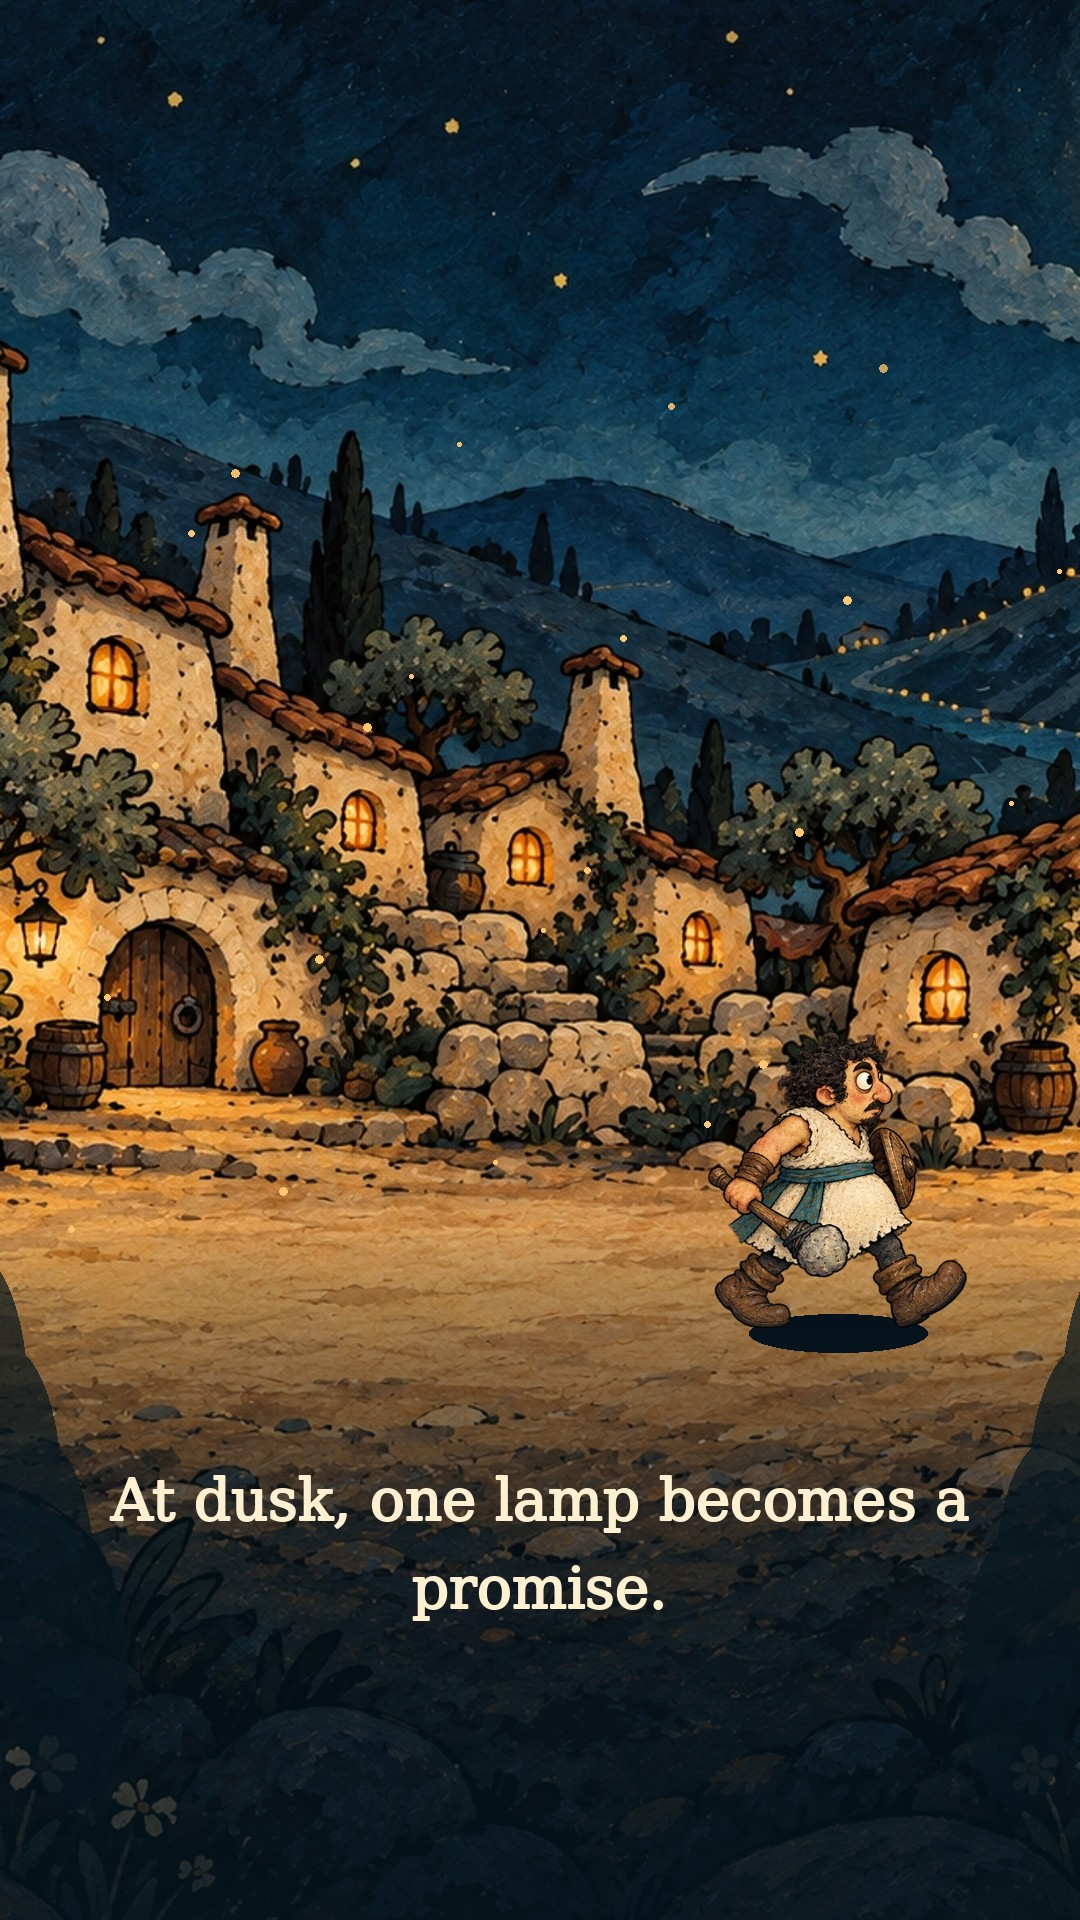
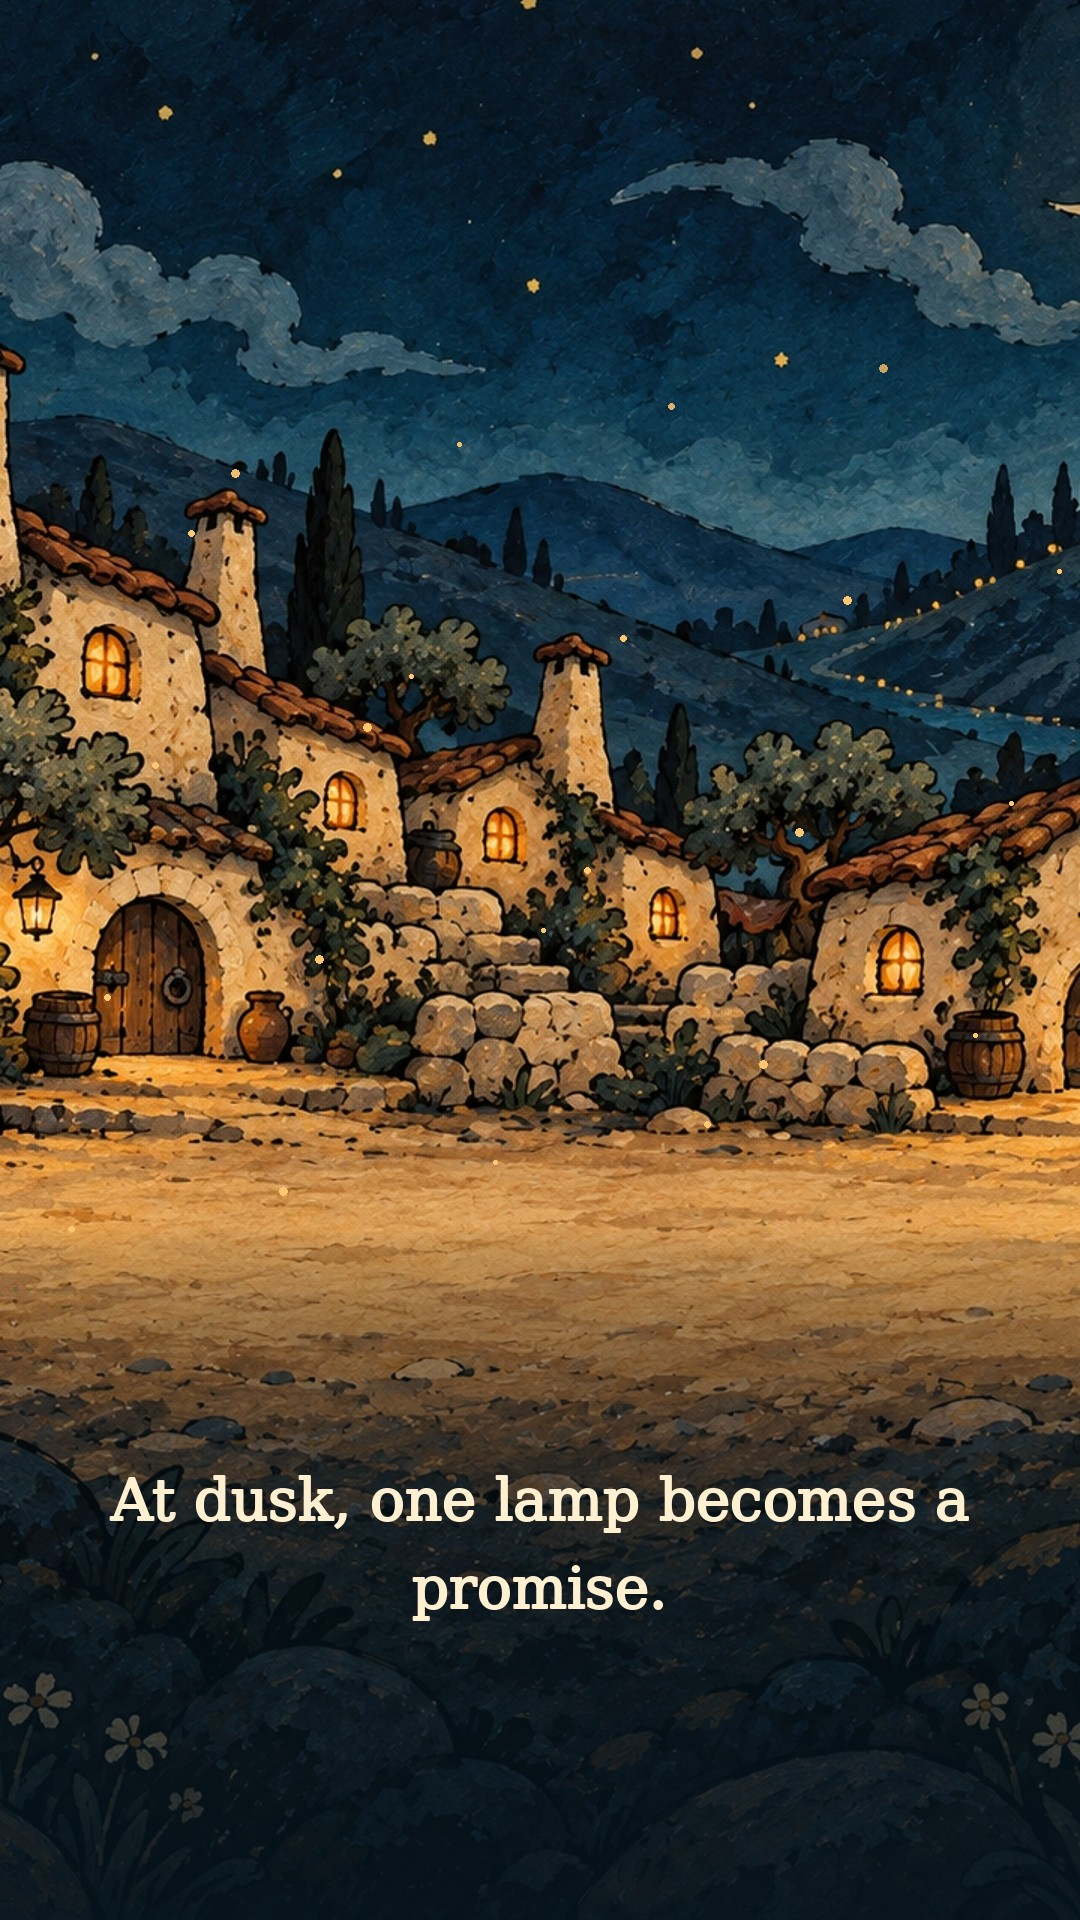
Ground cinematic characters in the authored courtyard [skip ci]

diff --git a/film/produce.py b/film/produce.py
@@ -30,50 +30,87 @@ for y in range(H):
  gd.line((0,y,W,y),fill=(5,21,31,a))
 
 def actor(im,name,x,base,height,frame=0,flip=False,shadow=False):
- a=actors[name][frame%6];a=a.resize((int(height*a.width/a.height),int(height)),Image.Resampling.BICUBIC)
+ a=actors[name][frame%6]
+ # Trim transparent padding so the visible sole, rather than the sprite box, meets the ground.
+ bounds=a.getchannel('A').getbbox()
+ if bounds:a=a.crop(bounds)
+ a=a.resize((int(height*a.width/a.height),int(height)),Image.Resampling.BICUBIC)
  if flip:a=a.transpose(Image.Transpose.FLIP_LEFT_RIGHT)
  if shadow:
   dark=Image.new('RGBA',a.size,(12,27,35,255));dark.putalpha(a.getchannel('A').point(lambda v:int(v*.8)));a=dark
- d=ImageDraw.Draw(im);d.ellipse((x-a.width*.34,base-16,x+a.width*.34,base+22),fill=(5,16,25,95))
+ # Composite the shadow in RGBA before flattening: no opaque navy ellipse.
+ blur=max(2,height*.011);pad=math.ceil(blur*4)
+ sw=math.ceil(a.width*.68);sh=math.ceil(height*.033)
+ contact=Image.new('RGBA',(sw+2*pad,sh+2*pad));d=ImageDraw.Draw(contact)
+ d.ellipse((pad,pad,pad+sw,pad+sh),fill=(25,22,17,85))
+ im.alpha_composite(contact.filter(ImageFilter.GaussianBlur(blur)),(int(x-sw/2-pad),int(base-height*.014-pad)))
  im.alpha_composite(a,(int(x-a.width/2),int(base-height)))
+
+def ground_scene(t,width,height):
+ """Project scenery and all grounded objects through one source-space camera."""
+ shot=min(5,int(t//10));u=t%10/10;e=u*u*(3-2*u)
+ plate=plates['olive' if shot in [2,3] else 'village'];portrait=height>width
+ if portrait:
+  zoom=[1.02,1.28,1.04,1.10,1.48,1.02][shot]+.035*e
+  ch=plate.height/zoom;cw=ch*width/height
+  cx=plate.width*[.51,.46,.50,.50,.73,.50][shot]+(e-.5)*18
+  cy=plate.height*(.42 if shot==4 else .53)
+ else:
+  zoom=[1.02,1.10,1.02,1.05,1.20,1.02][shot]+.035*e
+  cw=plate.width/zoom;ch=cw*height/width
+  cx=plate.width*.5+(e-.5)*18;cy=plate.height*(.38 if shot==4 else .61)+(e-.5)*12
+ cx=max(cw/2,min(plate.width-cw/2,cx));cy=max(ch/2,min(plate.height-ch/2,cy))
+ left,top=cx-cw/2,cy-ch/2;scale=width/cw
+ image=plate.crop((left,top,left+cw,top+ch)).resize((width,height),Image.Resampling.BICUBIC).convert('RGBA')
+ def project(x,y):return ((x-left)*scale,(y-top)*scale)
+ return image,project,scale
+
+def ground_company(im,t,project,scale):
+ """Feet stay on the authored open road (source y=850..990), never on roof or sky."""
+ shot=min(5,int(t//10));u=t%10/10;portrait=im.height>im.width
+ placements=[]
+ if shot==1:placements=[('pathkeeper',450,960,330,4)]
+ elif shot==2:
+  placements=[('rider',350+u*18,880,185,int(t*5)%4),('thrower',570+u*18,910,210,int(t*5+1)%4),('pathkeeper',790+u*18,955,255,int(t*5+2)%4)]
+ elif shot==3:
+  placements=[('thrower',(395 if portrait else 345)+u*24,945,220,int(t*5)%4),('rider',575+u*24,890,185,int(t*5+1)%4),('pathkeeper',(765 if portrait else 790)+u*24,965,255,int(t*5+2)%4)]
+ elif shot==5:
+  placements=[('rider',380 if portrait else 280,930,240,0),('thrower',780 if portrait else 850,935,245,0),('pathkeeper',570,980,330,4)]
+ for name,x,y,h,frame in sorted(placements,key=lambda a:a[2]):
+  sx,sy=project(x,y);actor(im,name,sx,sy,h*scale,frame)
+ # One planted standard in the dedicated raising scene; its base shares the courtyard projection.
+ if shot==1:
+  x,base=project(680,960);_,top=project(680,550);d=ImageDraw.Draw(im)
+  d.line((x,top-12*scale,x,base),fill='#483b2b',width=max(4,int(7*scale)))
+  d.line((x-scale,top-12*scale,x-scale,base),fill='#b69155',width=max(2,int(3*scale)))
+  # A woven, folded standard uses the same warm/cool pigments as the painted company.
+  def wave(q):return 6*scale*math.sin(t*1.5+q/45)
+  for q in range(131):
+   light=math.sin(q/14+t*.9)*7+math.sin(q*.83)*2
+   color=(int(36+light),int(73+light),int(79+light))
+   d.line((x+q*scale,top+wave(q),x+q*scale,top+100*scale+wave(q)),fill=color,width=max(1,math.ceil(scale)))
+  edge=[(x+q*scale,top+wave(q)) for q in range(131)]
+  lower=[(x+q*scale,top+100*scale+wave(q)) for q in range(131)]
+  d.line(edge,fill='#b09a66',width=max(1,int(scale)))
+  d.line(lower,fill='#172f34',width=max(2,int(2*scale)))
+  d.line((x+130*scale,top+wave(130),x+130*scale,top+100*scale+wave(130)),fill='#172f34',width=max(2,int(2*scale)))
+  for row in range(7,99,7):
+   d.line([(x+q*scale,top+row*scale+wave(q)) for q in range(4,129)],fill='#2b5055',width=1)
+  d.ellipse((x+53*scale,top+32*scale,x+75*scale,top+68*scale),fill='#c1a264',outline='#e0c080',width=max(1,int(scale)))
+  contact=Image.new('RGBA',im.size);cd=ImageDraw.Draw(contact)
+  cd.ellipse((x-16*scale,base-3*scale,x+24*scale,base+4*scale),fill=(25,22,17,125))
+  im.alpha_composite(contact.filter(ImageFilter.GaussianBlur(2*scale)))
 
 def scene(t,lang):
  shot=min(5,int(t//10));u=(t%10)/10; ease=u*u*(3-2*u)
- p=plates['olive' if shot in [2,3] else 'village']; zoom=[1.06,1.50,1.20,1.32,1.48,1.12][shot]+.08*ease
- cropH=p.height/zoom;cropW=cropH*W/H;cx=p.width*[.51,.30,.62,.54,.73,.52][shot]+(ease-.5)*80;cy=p.height*[.50,.52,.50,.50,.42,.50][shot]
- cx=max(cropW/2,min(p.width-cropW/2,cx));cy=max(cropH/2,min(p.height-cropH/2,cy))
- im=p.crop((cx-cropW/2,cy-cropH/2,cx+cropW/2,cy+cropH/2)).resize((W,H),Image.Resampling.BICUBIC).convert('RGBA')
+ im,project,scale=ground_scene(t,W,H)
+ ground_company(im,t,project,scale)
  d=ImageDraw.Draw(im,'RGBA')
- # Separate foreground, company planes, moving light and suspended dust.
  for i in range(24):
   x=(i*173+t*(5+i%4))%W;y=360+(i*197-t*(7+i%3))%950;r=2+i%3
   d.ellipse((x-r,y-r,x+r,y+r),fill=(255,199,112,45+i%4*18))
- if shot==0:
-  actor(im,'pathkeeper',860-100*ease,1330,300,int(t*5)%4)
- elif shot==1:
-  actor(im,'pathkeeper',400+25*ease,1400,710,4)
- elif shot==2:
-  for i,n in enumerate(['rider','thrower','pathkeeper']):actor(im,n,160+i*330+u*70,1320-i*25,430+i*40,int(t*5+i)%4)
- elif shot==3:
-  for i,n in enumerate(['thrower','rider','pathkeeper']):actor(im,n,180+i*340,1370-i*45,520+i*45,0)
- elif shot==4:
-  for i in range(3):actor(im,'pathkeeper',640+i*130-u*90,875+i*15,190-i*20,int(t*4+i)%4,True,True)
-  actor(im,'pathkeeper',220,1470,680,4)
- else:
-  actor(im,'thrower',790,1360,450,0);actor(im,'rider',180,1370,430,0);actor(im,'pathkeeper',500,1410,560,4)
- if shot in [1,3,5]:
-  # Company standard: an original indigo cloth with a simple golden seed emblem.
-  pole=740 if shot==1 else 610; top=465 if shot==1 else 665
-  d=ImageDraw.Draw(im,'RGBA');d.line((pole,top-40,pole,1370),fill='#b69155',width=13)
-  points=[(pole,top)]+[(pole+q,top+12*math.sin(t*1.7+q/80)) for q in range(0,250,20)]+[(pole+q,top+190+12*math.sin(t*1.7+q/80)) for q in range(240,-1,-20)]
-  d.polygon(points,fill='#24505c');d.line(points[1:14],fill='#d7b368',width=5);d.ellipse((pole+95,top+62,pole+133,top+128),fill='#edcb7b')
- # Close foreground leaf silhouettes give a stronger depth baseline than a flat zoom.
- fg=Image.new('RGBA',(W,H));fd=ImageDraw.Draw(fg)
- for side in [0,1]:
-  for i in range(5):
-   x=(i*33-70+math.sin(t*.22)*9) if side==0 else W-(i*33-70+math.sin(t*.22)*9)
-   fd.ellipse((x-50,1160+i*93,x+60,1480+i*82),fill=(8,24,30,180))
- im.alpha_composite(fg);im.alpha_composite(grade)
+ # The authored foreground already supplies textured leaves and depth.
+ im.alpha_composite(grade)
  # Captions dissolve gently at each actual editorial cut, otherwise hold readable.
  op=min(1,max(0,(t%10-.45)/.7),max(0,(9.7-t%10)/.6));cap=caps[lang][shot].copy();cap.putalpha(cap.getchannel('A').point(lambda v:int(v*op)));im.alpha_composite(cap)
  d=ImageDraw.Draw(im);small=ImageFont.truetype(fonten,27)

diff --git a/film/youtube.py b/film/youtube.py
@@ -16,46 +16,13 @@ for y in range(H):
 
 def scene(t,lang):
  shot=min(5,int(t//10));u=t%10/10;e=u*u*(3-2*u)
- plate=p.plates['olive' if shot in [2,3] else 'village'];zoom=[1.02,1.25,1.05,1.12,1.27,1.02][shot]+.055*e
- cw=plate.width/zoom;ch=cw*H/W;cx=plate.width*.5+(e-.5)*plate.width*(1-1/zoom)*.8
- cy=plate.height*[.40,.59,.53,.54,.38,.43][shot]+(e-.5)*32
- cy=max(ch/2,min(plate.height-ch/2,cy))
- im=plate.crop((cx-cw/2,cy-ch/2,cx+cw/2,cy+ch/2)).resize((W,H),Image.Resampling.BICUBIC).convert('RGBA')
- # Warm moving light across the illustrated village, independent of the camera.
- light=Image.new('RGBA',(W,H));ld=ImageDraw.Draw(light)
- for k in range(5):
-  x=170+k*345+e*18;y=380+(k%2)*100;r=48+5*math.sin(t*.7+k)
-  ld.ellipse((x-r,y-r,x+r,y+r),fill=(255,172,64,22))
- im.alpha_composite(light.filter(ImageFilter.GaussianBlur(35)))
- if shot==0:
-  p.actor(im,'pathkeeper',1430-e*140,870,360,int(t*5)%4)
-  p.actor(im,'thrower',1690-e*60,890,280,0)
- elif shot==1:
-  p.actor(im,'pathkeeper',630+e*35,930,850,4)
-  p.actor(im,'thrower',1380-e*40,835,330,0)
- elif shot==2:
-  for i,n in enumerate(['rider','thrower','pathkeeper']):p.actor(im,n,420+i*500+e*80,840+i*30,410+i*65,int(t*5+i)%4)
- elif shot==3:
-  for i,n in enumerate(['thrower','rider','pathkeeper']):p.actor(im,n,350+i*550+e*65,880-i*40,540-i*55,int(t*5+i)%4)
- elif shot==4:
-  p.actor(im,'pathkeeper',435+e*20,950,700,4)
- else:
-  p.actor(im,'rider',390-e*15,900,510,0);p.actor(im,'thrower',1310+e*15,900,560,0);p.actor(im,'pathkeeper',960,950,690,4)
- if shot in [1,3,5]:
-  x=[0,1040,0,1590,0,1570][shot];y=190 if shot==1 else 290;dd=ImageDraw.Draw(im)
-  dd.line((x,y-35,x,900),fill='#b69155',width=12)
-  points=[(x,y)]+[(x+q,y+14*math.sin(t*1.5+q/95)) for q in range(0,330,15)]+[(x+q,y+230+14*math.sin(t*1.5+q/95)) for q in range(315,-1,-15)]
-  dd.polygon(points,fill='#24505c');dd.line(points[1:23],fill='#d7b368',width=5);dd.ellipse((x+135,y+75,x+183,y+150),fill='#edcb7b')
+ im,project,scale=p.ground_scene(t,W,H)
+ p.ground_company(im,t,project,scale)
  d=ImageDraw.Draw(im)
  for i in range(34):
   x=(i*173+t*(5+i%4))%W;y=100+(i*197-t*(7+i%3))%780;r=2+i%3
   d.ellipse((x-r,y-r,x+r,y+r),fill=(255,199,112,65))
- fg=Image.new('RGBA',(W,H));fd=ImageDraw.Draw(fg)
- for side in [0,1]:
-  for i in range(5):
-   x=(i*30-60+math.sin(t*.22)*10) if side==0 else W-(i*30-60+math.sin(t*.22)*10)
-   fd.ellipse((x-60,660+i*70,x+80,1000+i*70),fill=(8,24,30,210))
- im.alpha_composite(fg);im.alpha_composite(grade)
+ im.alpha_composite(grade)
  if shot==5:
   im.alpha_composite(textlayer('المحاربون' if lang=='ar' else 'ALMO7AREBOON',lang,108 if lang=='ar' else 84,112,'#f0ce87'))
   im.alpha_composite(textlayer('الذين يسيرون معًا' if lang=='ar' else 'Those who walk together',lang,67 if lang=='ar' else 53,218))
@@ -65,10 +32,12 @@ def scene(t,lang):
  return im.convert('RGB')
 
 def thumbnail(lang):
- plate=p.plates['village'];im=plate.crop((0,120,plate.width,120+plate.width*9/16)).resize((W,H)).convert('RGBA')
+ im,project,scale=p.ground_scene(55,W,H)
+ for name,x,y,h,frame in [('rider',1035,920,220,0),('pathkeeper',825,975,355,4)]:
+  sx,sy=project(x,y);p.actor(im,name,sx,sy,h*scale,frame)
  shade=Image.new('RGBA',(W,H));d=ImageDraw.Draw(shade)
  for x in range(W):d.line((x,0,x,H),fill=(5,21,31,int(230*max(0,1-x/1500))))
- im.alpha_composite(shade);p.actor(im,'rider',1680,1100,590,0);p.actor(im,'pathkeeper',1390,1120,1050,4)
+ im.alpha_composite(shade)
  d=ImageDraw.Draw(im)
  lines=['المحاربون','نسير معًا'] if lang=='ar' else ['ALMO7AREBOON','WALK TOGETHER']
  for y,txt,size,color in [(330,lines[0],100 if lang=='ar' else 81,'#f0ce87'),(505,lines[1],113 if lang=='ar' else 83,'#fff0d2')]:

diff --git a/film/test_grounding.py b/film/test_grounding.py
@@ -1,0 +1,44 @@
+"""Renderer regressions; run with python -m unittest discover -s film -p 'test_*.py'."""
+import unittest
+from unittest.mock import patch
+from PIL import Image
+import produce as p
+
+
+class GroundingTests(unittest.TestCase):
+ def test_camera_projects_source_ground_into_both_formats(self):
+  for width,height in [(1080,1920),(1920,1080)]:
+   for t in [10.5,15,19.5,20.5,25,29.5,30.5,35,39.5,50.5,55,59.5]:
+    im,project,scale=p.ground_scene(t,width,height)
+    calls=[]
+    with patch.object(p,'actor',side_effect=lambda *args,**kwargs:calls.append(args)):
+     p.ground_company(im,t,project,scale)
+    ground_top=project(0,850)[1];ground_bottom=project(0,990)[1]
+    for _,name,x,base,h,frame in calls:
+     self.assertGreaterEqual(base,ground_top)
+     self.assertLessEqual(base,ground_bottom)
+     self.assertLess(base,height*.85)
+     self.assertGreater(x,0)
+     self.assertLess(x,width)
+     self.assertGreater(h/scale,150)
+     self.assertLessEqual(h/scale,330.000001)
+
+ def test_establishing_and_valley_shots_have_no_unsupported_actors(self):
+  for t in [1,5,9,41,45,49]:
+   im,project,scale=p.ground_scene(t,1920,1080)
+   with patch.object(p,'actor') as actor:
+    p.ground_company(im,t,project,scale)
+   actor.assert_not_called()
+
+ def test_contact_shadow_preserves_ground_color_and_visible_sole(self):
+  im=Image.new('RGBA',(400,400),(210,170,110,255))
+  p.actor(im,'pathkeeper',200,300,200,4)
+  # A sample just below the sole lies within the soft contact, not in an opaque oval.
+  r,g,b,a=im.getpixel((200,302))
+  self.assertGreater(r,120)
+  self.assertGreater(g,90)
+  self.assertEqual(a,255)
+  self.assertEqual(im.getpixel((20,302)),(210,170,110,255))
+
+
+if __name__=='__main__':unittest.main()

diff --git a/docs/audits/2026-10-13-grounded-cinema.md b/docs/audits/2026-10-13-grounded-cinema.md
@@ -1,0 +1,15 @@
+# Grounded company cinema — 13 October 2026
+
+IDEAL / 5Ws: a viewer watching the original company tale in either language and either aspect ratio must see the company walking on the authored road. Screen-relative placement previously left feet on roofs or over the distant valley; flattening a translucent shadow before compositing produced an opaque oval. Identify the source ground, define one camera transform, explore conservative staging, act on projection and compositing, then inspect native frames.
+
+Twenty candidates considered: (1) shared scenery/actor projection; (2) source road feet; (3) camera-relative scale; (4) trimmed transparent sprite padding; (5) alpha contact shadows; (6) planted pole; (7) woven cloth; (8) foreground depth ordering; (9) empty establishing view; (10) empty distant-valley view; (11) portrait-safe trio spacing; (12) grounded thumbnail staging; (13) remove synthetic leaf ovals; (14) retain authored foreground; (15) introduce new backgrounds; (16) generate new people; (17) rewrite story; (18) add effects bursts; (19) new player controls; (20) change save schema. Selected 1–14; rejected 15–20 as unnecessary identity or scope changes.
+
+Two genuine visual correction passes: first the shared source projection and shadows; then the native-frame findings (portrait trio clipped at the edge, flat flag, synthetic leaf ovals, and ungrounded thumbnail staging). These are two passes, not a claim of hundreds of iterations.
+
+Both renderers now share source-space camera projection and company placement. Ground feet lie at source y880–980 on the authored open road; actor height follows camera scale. Establishing and valley shots carry no characters. Soft shadows are alpha-composited before RGB conversion. The standard has a planted outlined pole, base shadow, woven surface and restrained fold light. The original painted foreground replaces the added flat ellipse leaves. Thumbnails use the same ground camera.
+
+Evidence: 24 native-sized PNGs at `/tmp/moh-ground/{portrait,wide}-{en,ar}-{5,15,25,35,45,55}.png`, all viewed. Corrected English thumbnail viewed. Root independently inspected wide15/55, accepted footing and requested the subsequent cloth/pole pass; that adjusted frame was viewed again. This is rendered-frame evidence, not physical-device playback acceptance.
+
+`python -m unittest discover -s film -p 'test_*.py'`: 3 passed. Checks exercise both camera formats through start/mid/end company shots, source road limits and height scaling, empty unsupported shots, and a pixel sample proving the shadow retains ground color. Initial assertion exposed only floating-point roundoff (330.00000000000006); the strict limit now allows 0.000001 tolerance.
+
+Four complete movies and their manifests are regenerating from this final source. Final encode metadata/decode verification will be appended when complete. Runtime UI and save formats are unchanged by this cinema correction.

diff --git a/DESIGN.md b/DESIGN.md
@@ -150,3 +150,6 @@ A first launch opens with a nine-second tale between Play and the field: three b
 
 ## Company cinema — 12 October 2026
 The optional one-minute “Those who walk together” film uses existing source-resolution company and settlement paintings, slow layered movement, original indigo standard, restrained dust and a newly composed modal score. English and Arabic exports have individually typeset captions. No persistent watermark competes with the picture. Settings adds one film action; Home remains the same quiet invitation. The established opening now lasts 12 seconds including its handover, with an explicit language selector and existing still mode for reduced motion. This localizes only the opening/film; the game remains English.
+
+### Grounded company cinema (13 October 2026)
+The optional film uses one source-coordinate camera for scenery, company and planted standard. Feet belong to the authored road; establishing/valley views carry no unsupported figures. Contact shadows preserve the original painting, and portrait/wide thumbnails share the same placement discipline. Evidence: `docs/audits/2026-10-13-grounded-cinema.md`.

diff --git a/TODO.md b/TODO.md
@@ -231,3 +231,9 @@ IDEAL/5Ws and twenty alternatives per distinct scenario: `docs/audits/2026-10-08
 - [x] Extend the canonical opening to 12 seconds with language selection and retained skip/reduced-motion/once-only semantics.
 - [x] Add an optional Preferences movie with native seeking, retry, background pause and canonical modal ownership.
 - [ ] Physical iOS/Android/Safari cinema and listening acceptance.
+
+## Grounded cinema correction — 13 October 2026
+- [x] Share source camera projection, road contact and scale across portrait/wide film.
+- [x] Remove unsupported valley figures; correct translucent shadows, planted standard, portrait spacing and thumbnail footing.
+- [x] View all 24 native shot/language/format frames; pass three renderer regressions.
+- [ ] Finish four final encodes, update manifests and verify decoded final files.
